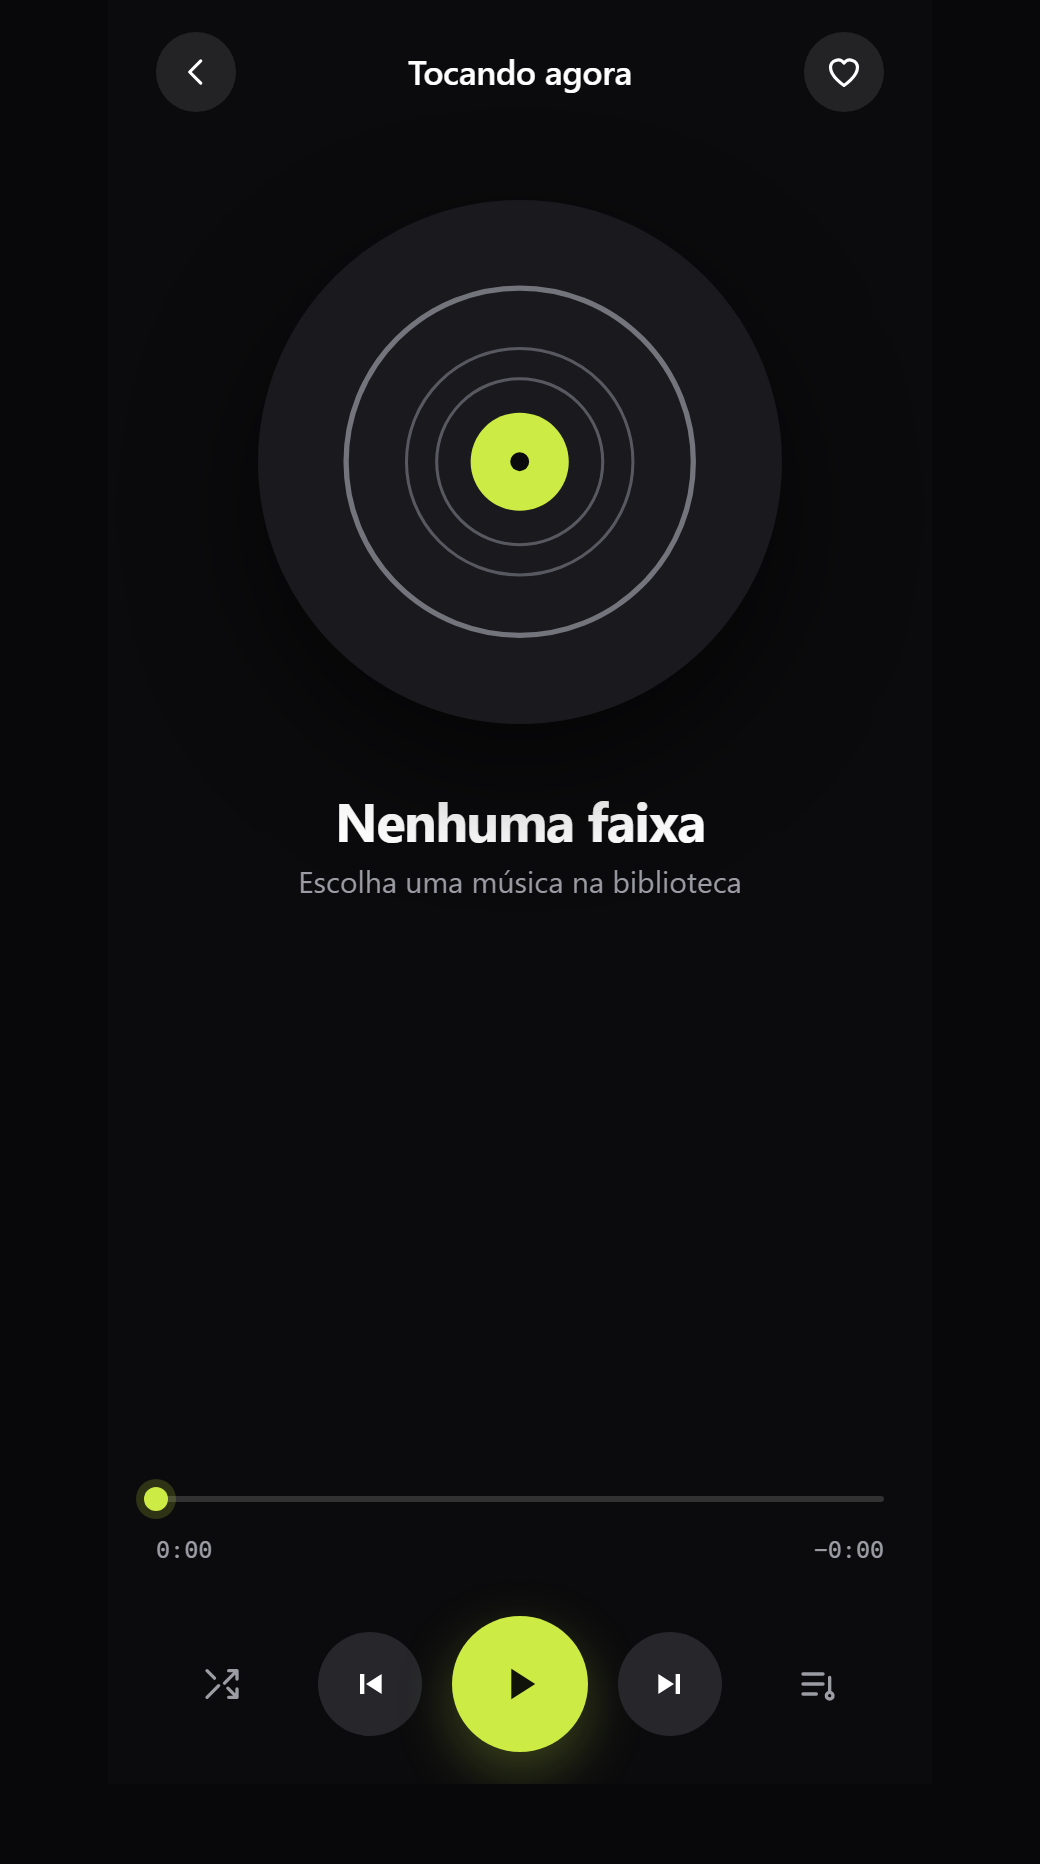
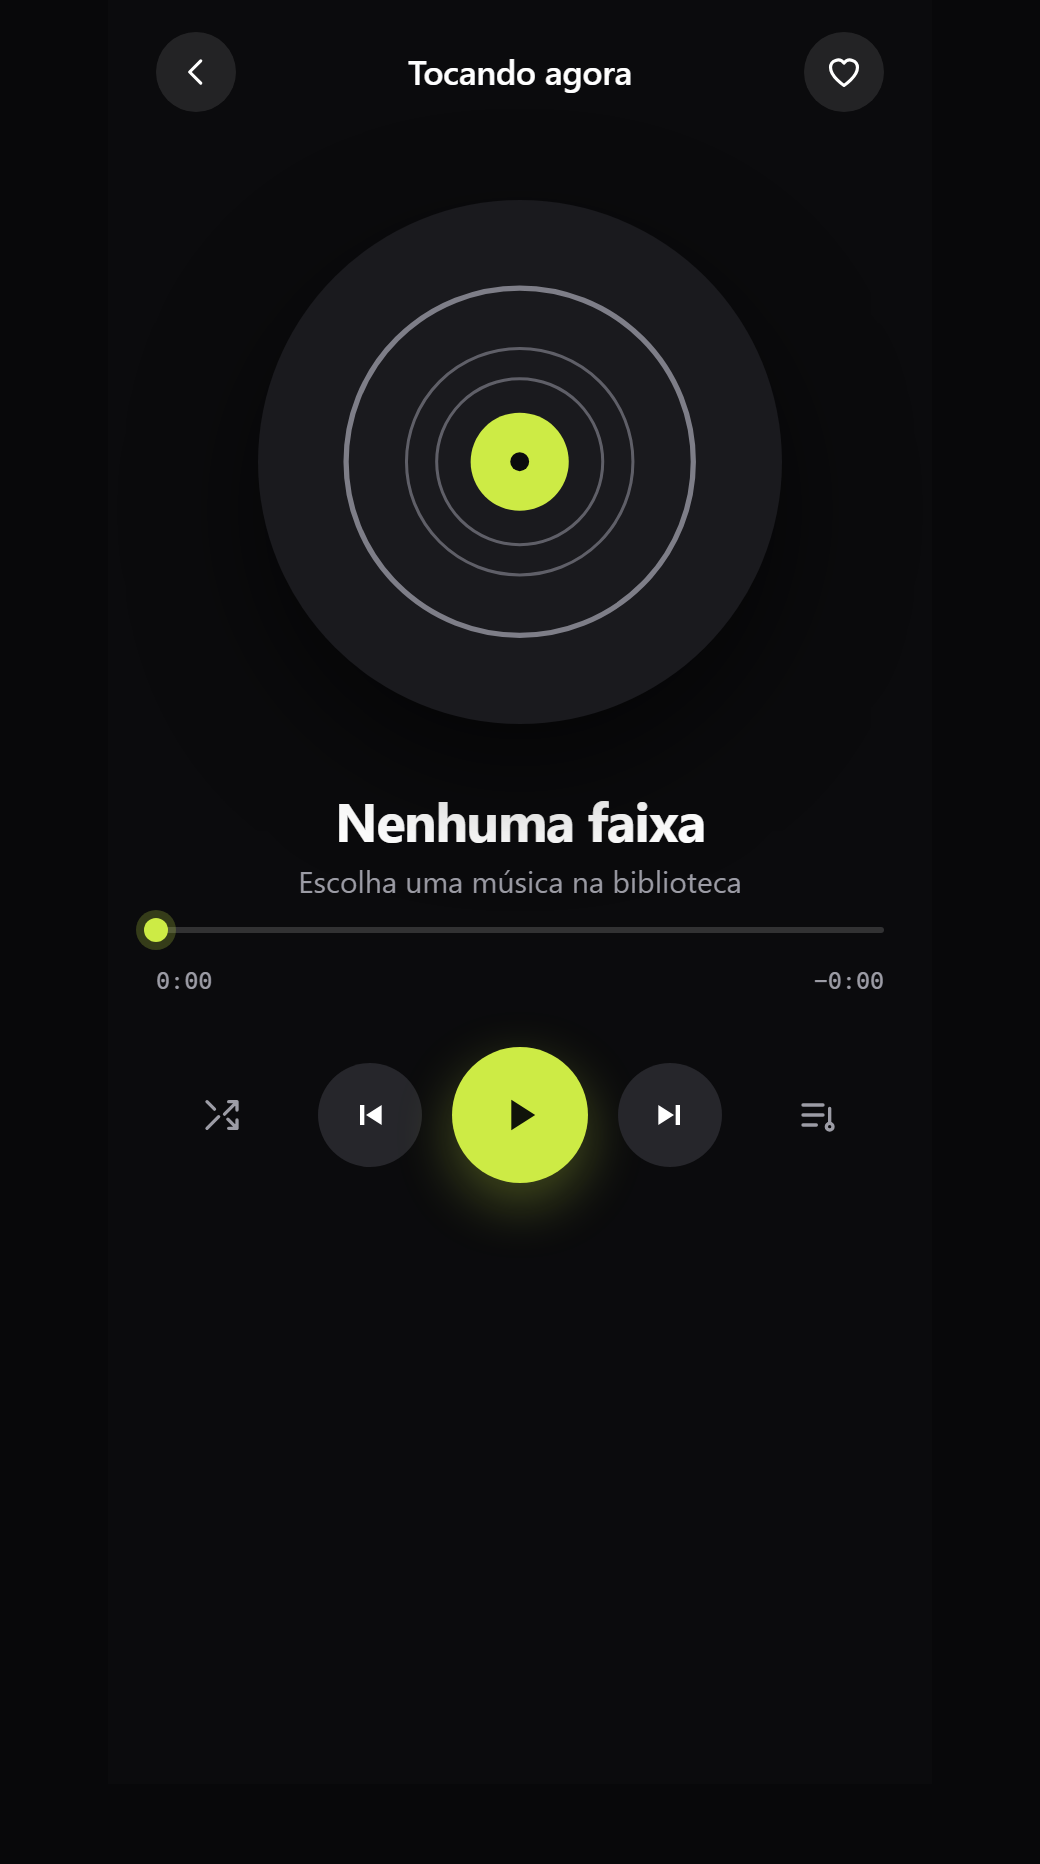
Dois temas à escolha, escuro e claro, no menu
Eu tinha tirado o tema claro no redesenho. Volta — e a volta obrigou a
resolver um problema de medida, não de gosto.

O verde-limão sobre fundo claro mede 1,24:1. Como TINTA ele simplesmente
some: título da faixa que toca, coração curtido, barra de progresso. Como
PREENCHIMENTO, com texto escuro em cima, funciona nos dois temas — o par
mede 13,9:1.

Daí dois tokens:

  --lima        preenchimento, sempre o mesmo verde vivo
  --lima-tinta  quando o limão é a tinta; no tema claro escurece para
                #4A6300, que mede 6,26:1

Nada foi invertido na marra: cada par frente/fundo foi medido de novo, e o
verificador achou um reprovado que eu não tinha visto — --tenue no tema
escuro estava em 4,25:1, abaixo do piso de 4,5. Corrigido para #7E7E88,
que dá 4,80:1.

Todo valor fixo de cor virou token, inclusive sombras, vidros e a moldura
do computador, senão o tema claro herdaria sombras pensadas para o preto.

A escolha fica guardada e a barra de status do sistema acompanha o fundo.

diff --git a/style.css b/style.css
@@ -1,8 +1,9 @@
 /* ============================================================================
    VITROLA — folha de estilo
 
-   Tema escuro, único, assumido. Verde-limão é a ÚNICA cor de ação: tocar,
-   filtro ativo, progresso, curtida. Todo o resto é preto e cinza.
+   Dois temas, escuro e claro, escolhidos no menu. Verde-limão é a ÚNICA
+   cor de ação nos dois: tocar, filtro ativo, progresso, curtida. Todo o
+   resto é preto e cinza — ou branco e cinza.
 
    A cor da capa não some — ela vive no BRILHO do fundo, ampliada e
    desfocada atrás do disco. Assim o álbum ilumina o ambiente sem disputar
@@ -24,16 +25,36 @@
   --t-xl: 1.375rem;   /* 22 — título da tela de biblioteca */
   --t-faixa: clamp(1.5rem, 6.5vw, 1.875rem);
 
-  /* -- cor -- */
-  --fundo:      #0B0B0D;
-  --superficie: #1A1A1E;
-  --superficie2:#26262B;
-  --texto:      #FFFFFF;
-  --fraco:      #9C9CA5;
-  --tenue:      #74747D;
-  --lima:       #CDEB45;
-  --lima-fosca: #A9C233;
+  /* -- cor: escuro é o padrão -----------------------------------------
 
+     Dois tokens de limão, e o motivo é medida, não gosto:
+
+       --lima        preenchimento. Sempre o mesmo verde vivo, com texto
+                     escuro em cima — funciona nos dois temas.
+       --lima-tinta  quando o limão é a TINTA (ícone curtido, título da
+                     faixa que toca, barra de progresso). Sobre fundo
+                     claro o verde vivo mede 1,4:1 e some; no tema claro
+                     este token escurece até passar no contraste.       */
+  --fundo:       #0B0B0D;
+  --superficie:  #1A1A1E;
+  --superficie2: #26262B;
+  --texto:       #FFFFFF;
+  --fraco:       #9C9CA5;
+  --tenue:       #7E7E88;
+  --lima:        #CDEB45;
+  --lima-clara:  #DBF562;
+  --lima-tinta:  #CDEB45;
+  --sobre-lima:  #10130A;
+  --vidro:       rgb(255 255 255 / .10);
+  --vidro-alto:  rgb(255 255 255 / .18);
+  --fio:         rgb(255 255 255 / .16);
+  --realce:      rgb(255 255 255 / .05);
+  --moldura:     #08080A;
+  --brilho-op:   .55;
+  --sombra:      0 24px 60px rgb(0 0 0 / .55);
+  --sombra-mini: 0 12px 34px rgb(0 0 0 / .5);
+
+  /* -- o que não muda com o tema -- */
   --r-pill: 999px;
   --r-card: 14px;
 
@@ -45,6 +66,30 @@
   --mono: ui-monospace, "SF Mono", "Cascadia Mono", Consolas, monospace;
 
   --largura: 460px;          /* é um app de celular, também no computador */
+}
+
+/* -- claro: mesma estrutura, outros valores. Nada de inverter na marra:
+      cada par frente/fundo foi medido de novo. -------------------------- */
+:root[data-tema="claro"] {
+  color-scheme: light;
+  --fundo:       #F4F5F7;
+  --superficie:  #E6E8EC;
+  --superficie2: #DADDE3;
+  --texto:       #14151A;
+  --fraco:       #4E525B;
+  --tenue:       #5F636D;
+  --lima:        #CDEB45;
+  --lima-clara:  #DBF562;
+  --lima-tinta:  #4A6300;
+  --sobre-lima:  #10130A;
+  --vidro:       rgb(0 0 0 / .07);
+  --vidro-alto:  rgb(0 0 0 / .13);
+  --fio:         rgb(0 0 0 / .18);
+  --realce:      rgb(0 0 0 / .04);
+  --moldura:     #E4E6EA;
+  --brilho-op:   .28;
+  --sombra:      0 20px 46px rgb(20 21 26 / .18);
+  --sombra-mini: 0 10px 26px rgb(20 21 26 / .16);
 }
 
 *, *::before, *::after { box-sizing: border-box; }
@@ -74,7 +119,7 @@ body {
 }
 
 :where(button, [href], input, [tabindex]):focus-visible {
-  outline: 2px solid var(--lima);
+  outline: 2px solid var(--lima-tinta);
   outline-offset: 3px;
   border-radius: 6px;
 }
@@ -99,7 +144,7 @@ svg path, svg circle {
   -webkit-mask-image: linear-gradient(to bottom, #000 0%, #000 38%, transparent 100%);
           mask-image: linear-gradient(to bottom, #000 0%, #000 38%, transparent 100%);
 }
-.brilho.aceso { opacity: .55; }
+.brilho.aceso { opacity: var(--brilho-op); }
 
 .brilho img {
   position: absolute;
@@ -165,18 +210,18 @@ svg path, svg circle {
   width: 40px; height: 40px;
   display: grid; place-items: center;
   border: 0; border-radius: 50%;
-  background: rgb(255 255 255 / .10);
+  background: var(--vidro);
   backdrop-filter: blur(12px);
   color: var(--texto);
   cursor: pointer;
   transition: background var(--rapido), scale var(--rapido), color var(--rapido);
 }
-.redondo:hover { background: rgb(255 255 255 / .18); }
+.redondo:hover { background: var(--vidro-alto); }
 .redondo:active { scale: .94; }
 .redondo svg { width: 19px; height: 19px; }
 
-#btn-curtir[aria-pressed="true"] { color: var(--lima); }
-#btn-curtir[aria-pressed="true"] .coracao path { fill: var(--lima); }
+#btn-curtir[aria-pressed="true"] { color: var(--lima-tinta); }
+#btn-curtir[aria-pressed="true"] .coracao path { fill: var(--lima-tinta); }
 
 /* --------------------------------------------------------------- menu */
 
@@ -190,7 +235,7 @@ svg path, svg circle {
   padding: var(--e1);
   display: flex; flex-direction: column;
   min-width: 220px;
-  box-shadow: 0 18px 40px rgb(0 0 0 / .55);
+  box-shadow: var(--sombra);
 }
 .menu-item {
   font: inherit; font-size: var(--t-md);
@@ -200,7 +245,7 @@ svg path, svg circle {
   border-radius: 10px;
   cursor: pointer;
 }
-.menu-item:hover { background: rgb(255 255 255 / .07); }
+.menu-item:hover { background: var(--realce); }
 
 /* --------------------------------------------------------------- chips */
 
@@ -233,7 +278,7 @@ svg path, svg circle {
 .chip:active { scale: .96; }
 .chip[aria-pressed="true"] {
   background: var(--lima);
-  color: #10130A;
+  color: var(--sobre-lima);
   font-weight: 600;
 }
 
@@ -276,7 +321,7 @@ svg path, svg circle {
   cursor: pointer;
   transition: background var(--rapido), scale var(--rapido);
 }
-.item:hover { background: rgb(255 255 255 / .05); }
+.item:hover { background: var(--realce); }
 .item:active { scale: .985; }
 
 .item-capa {
@@ -318,16 +363,16 @@ svg path, svg circle {
 .item-play svg path { fill: currentColor; stroke: none; }
 
 /* a que toca: limão E um traço, porque cor sozinha nunca basta */
-.item[aria-current="true"] { background: rgb(205 235 69 / .07); }
-.item[aria-current="true"] .item-tit { color: var(--lima); }
-.item[aria-current="true"] .item-play { background: var(--lima); color: #10130A; }
+.item[aria-current="true"] { background: color-mix(in srgb, var(--lima-tinta) 11%, transparent); }
+.item[aria-current="true"] .item-tit { color: var(--lima-tinta); }
+.item[aria-current="true"] .item-play { background: var(--lima); color: var(--sobre-lima); }
 
-.item-curtida {
+.item-curtida { /* limão como tinta: escurece no tema claro */
   width: 13px; height: 13px;
   display: inline-block;
   vertical-align: -1px;
   margin-inline-end: 5px;
-  color: var(--lima);
+  color: var(--lima-tinta);
 }
 .item-curtida path { fill: currentColor; stroke: none; }
 
@@ -350,7 +395,7 @@ svg path, svg circle {
   font: inherit;
   font-size: var(--t-md);
   font-weight: 600;
-  color: #10130A;
+  color: var(--sobre-lima);
   background: var(--lima);
   border: 0;
   border-radius: var(--r-pill);
@@ -359,12 +404,12 @@ svg path, svg circle {
   cursor: pointer;
   transition: scale var(--rapido), background var(--rapido);
 }
-.botao-lima:hover { background: #DBF562; }
+.botao-lima:hover { background: var(--lima-clara); }
 .botao-lima:active { scale: .96; }
 
 .d-borda { fill: none; stroke: var(--tenue); stroke-width: 1.4; }
 .d-sulco { fill: none; stroke: var(--tenue); stroke-width: .8; opacity: .7; }
-.d-selo  { fill: var(--lima); stroke: none; }
+.d-selo  { fill: var(--lima-tinta); stroke: none; }
 .d-furo  { fill: var(--fundo); stroke: none; }
 
 /* --------------------------------------------------------- mini player */
@@ -380,9 +425,9 @@ svg path, svg circle {
   gap: var(--e3);
   padding: var(--e2);
   border-radius: var(--r-pill);
-  background: rgb(38 38 43 / .82);
+  background: color-mix(in srgb, var(--superficie2) 84%, transparent);
   backdrop-filter: blur(20px);
-  box-shadow: 0 12px 34px rgb(0 0 0 / .5);
+  box-shadow: var(--sombra-mini);
 }
 .mini-capa {
   width: 44px; height: 44px;
@@ -427,7 +472,7 @@ svg path, svg circle {
   overflow: hidden;
   flex: none;
   background: var(--superficie);
-  box-shadow: 0 24px 60px rgb(0 0 0 / .55);
+  box-shadow: var(--sombra);
 }
 .bolacha img { width: 100%; height: 100%; object-fit: cover; display: block; }
 .bolacha-vazia { position: absolute; inset: 14%; }
@@ -489,16 +534,16 @@ svg path, svg circle {
   border-radius: 2px;
   pointer-events: none;
 }
-.trilho-fundo { inset-inline: 0; background: rgb(255 255 255 / .16); }
-.trilho-cheio { inset-inline-start: 0; width: 0; background: var(--lima); }
+.trilho-fundo { inset-inline: 0; background: var(--fio); }
+.trilho-cheio { inset-inline-start: 0; width: 0; background: var(--lima-tinta); }
 .trilho-bola {
   position: absolute;
   width: 12px; height: 12px;
   border-radius: 50%;
-  background: var(--lima);
+  background: var(--lima-tinta);
   transform: translateX(-50%);
   pointer-events: none;
-  box-shadow: 0 0 0 4px rgb(205 235 69 / .18);
+  box-shadow: 0 0 0 4px color-mix(in srgb, var(--lima-tinta) 22%, transparent);
 }
 
 .tempos {
@@ -533,7 +578,7 @@ svg path, svg circle {
 .t-plano { width: 44px; height: 44px; background: none; color: var(--fraco); }
 .t-plano:hover { color: var(--texto); }
 .t-plano svg { width: 20px; height: 20px; }
-.t-plano[aria-pressed="true"] { color: var(--lima); }
+.t-plano[aria-pressed="true"] { color: var(--lima-tinta); }
 
 .t-cinza { width: 52px; height: 52px; background: var(--superficie2); }
 .t-cinza svg { width: 20px; height: 20px; }
@@ -543,10 +588,10 @@ svg path, svg circle {
 .t-lima {
   width: 68px; height: 68px;
   background: var(--lima);
-  color: #10130A;
-  box-shadow: 0 10px 28px rgb(205 235 69 / .26);
+  color: var(--sobre-lima);
+  box-shadow: 0 10px 28px color-mix(in srgb, var(--lima) 30%, transparent);
 }
-.t-lima:hover { background: #DBF562; }
+.t-lima:hover { background: var(--lima-clara); }
 .t-lima svg { width: 26px; height: 26px; }
 .t-lima svg path { fill: currentColor; stroke: none; }
 #icone-pausa path { fill: none; stroke: currentColor; stroke-width: 2.6; }
@@ -557,15 +602,15 @@ svg path, svg circle {
 .cortina {
   position: fixed; inset: 0; z-index: 50;
   display: grid; place-items: center;
-  background: rgb(11 11 13 / .9);
+  background: color-mix(in srgb, var(--fundo) 92%, transparent);
   backdrop-filter: blur(4px);
 }
 .cortina p {
   margin: 0;
   font-size: clamp(1.2rem, 5vw, 1.8rem);
   font-weight: 700;
-  color: var(--lima);
-  border: 2px dashed var(--lima);
+  color: var(--lima-tinta);
+  border: 2px dashed var(--lima-tinta);
   border-radius: var(--r-card);
   padding: clamp(28px, 7vw, 56px) clamp(32px, 9vw, 72px);
   text-align: center;
@@ -581,10 +626,10 @@ svg path, svg circle {
     border-radius: 28px;
     overflow: hidden;
     box-shadow: 0 30px 80px rgb(0 0 0 / .6);
-    outline: 1px solid rgb(255 255 255 / .07);
+    outline: 1px solid var(--vidro);
     outline-offset: -1px;
   }
-  body { background: #08080A; }
+  body { background: var(--moldura); }
 }
 
 /* ------------------------------------------------------------- respeito */

diff --git a/app.js b/app.js
@@ -571,6 +571,29 @@ function fecharMenu() {
   $('btn-menu').setAttribute('aria-expanded', 'false');
 }
 
+/* ---- tema: escuro e claro, à escolha ----
+   O verde-limão não muda de valor quando é PREENCHIMENTO (com texto
+   escuro em cima ele funciona nos dois). Como TINTA ele muda: sobre
+   fundo claro o verde vivo mede 1,4:1 e some. Quem cuida disso é o
+   token --lima-tinta, no CSS. */
+function temaAtual() {
+  return document.documentElement.getAttribute('data-tema') === 'claro' ? 'claro' : 'escuro';
+}
+
+function aplicarTema(t) {
+  if (t === 'claro') document.documentElement.setAttribute('data-tema', 'claro');
+  else document.documentElement.removeAttribute('data-tema');
+
+  const rot = $('rotulo-tema');
+  if (rot) rot.textContent = t === 'claro' ? 'claro' : 'escuro';
+
+  // a barra de status do sistema acompanha o fundo
+  const meta = document.querySelector('meta[name="theme-color"]');
+  if (meta) meta.setAttribute('content', t === 'claro' ? '#F4F5F7' : '#0B0B0D');
+
+  try { localStorage.setItem('vitrola:tema', t); } catch (_) {}
+}
+
 const D_CORACAO = 'M12 20.5S3.5 15 3.5 9.2A4.7 4.7 0 0 1 12 6.4a4.7 4.7 0 0 1 8.5 2.8c0 5.8-8.5 11.3-8.5 11.3z';
 const D_DISCO   = 'M12 3a9 9 0 1 0 0 18 9 9 0 0 0 0-18zm0 7.2a1.8 1.8 0 1 1 0 3.6 1.8 1.8 0 0 1 0-3.6z';
 
@@ -954,6 +977,11 @@ $('btn-aleatorio').addEventListener('click', e => {
   avisar(estado.aleatorio ? 'Ordem aleatória ligada' : 'Ordem aleatória desligada');
 });
 
+$('btn-tema').addEventListener('click', () => {
+  aplicarTema(temaAtual() === 'claro' ? 'escuro' : 'claro');
+  avisar('Tema ' + temaAtual());
+});
+
 $('btn-embaralhar-tudo').addEventListener('click', () => {
   if (!estado.fila.length) return;
   estado.aleatorio = true;
@@ -1095,6 +1123,10 @@ function quadro(agora) {
 
 /* --- arranque --- */
 (function iniciar() {
+  let salvo = null;
+  try { salvo = localStorage.getItem('vitrola:tema'); } catch (_) {}
+  aplicarTema(salvo === 'claro' ? 'claro' : 'escuro');
+
   ligarControlesDoSistema();
   irPara('biblioteca');
   pintarLista();

diff --git a/index.html b/index.html
@@ -53,6 +53,7 @@
 
     <div class="menu" id="menu" hidden>
       <button type="button" class="menu-item" id="btn-embaralhar-tudo">Tocar tudo embaralhado</button>
+      <button type="button" class="menu-item" id="btn-tema">Tema: <span id="rotulo-tema">escuro</span></button>
       <button type="button" class="menu-item" id="btn-limpar">Esvaziar a biblioteca</button>
     </div>
 

diff --git a/testes/testar.js b/testes/testar.js
@@ -57,8 +57,10 @@ const ctxGlobal = {
     querySelector: elFalso,
     querySelectorAll: () => [],
     addEventListener: noop,
+    documentElement: elFalso('html'),
     title: '',
   },
+  localStorage: { getItem: () => null, setItem: noop },
   window: {
     addEventListener: noop,
     matchMedia: () => ({ matches: false, addEventListener: noop }),
